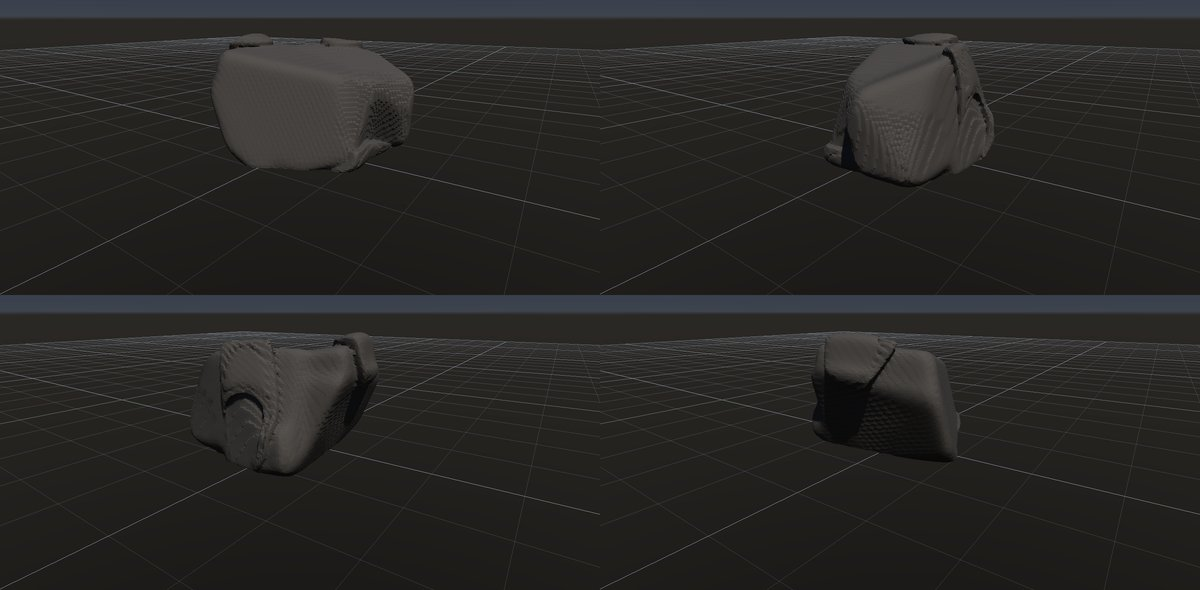
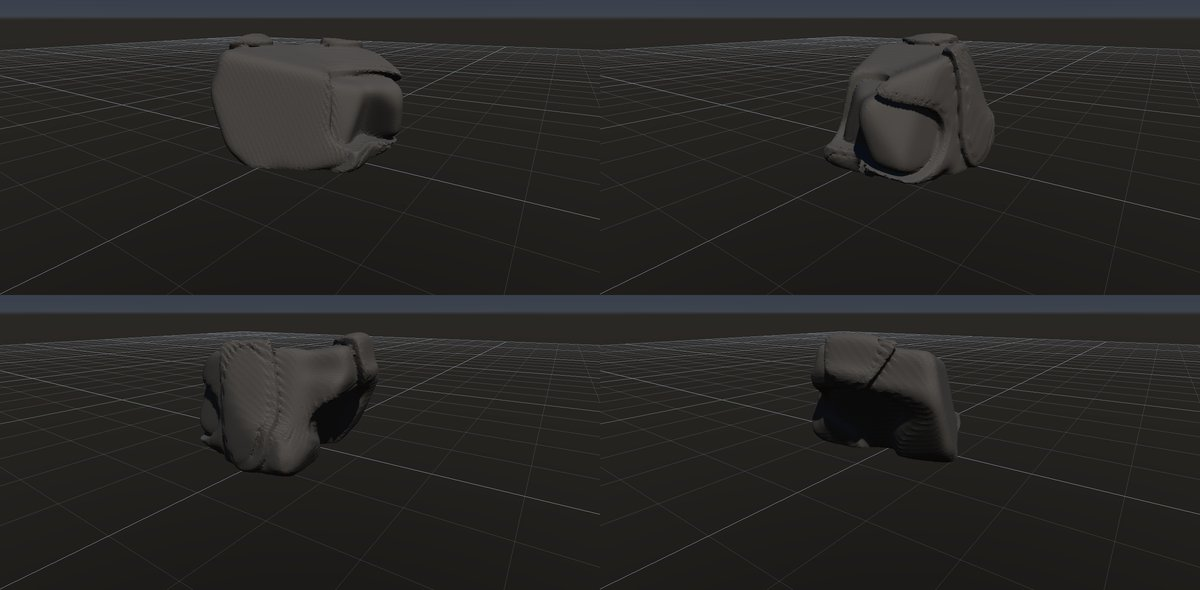
fix: Volume Crack の殻の剥がれが縞になる・内側の殻が剥がれない不具合を直す
剥がれた底のすぐ下の格子点が元の値のまま残り、底をまたぐセルで値が跳んで
等高線のような縞（ボクセルの段）になっていた。底の 3 セル奥まで値を直す。
殻ごとのループが 1 枚目で打ち切られ、2 枚目以降の剥がれが効いていなかったのも直す。
剥がれ落ちた殻には割れ目を彫らない。回帰テストを 2 つ足した。

レシピ spheroidal-weathering（玉ねぎ状風化）を足し、granite-sheeting は殻を 2 枚に減らした。

diff --git a/src/geometry/Volume.cpp b/src/geometry/Volume.cpp
@@ -1114,6 +1114,19 @@ static VolumeGrid CrackVolumeImpl(const VolumeGrid& g, const std::vector<Vec3>& 
             }
         return best;
     };
+    // 剥がれ: 殻 k の板は、殻ごとのノイズがしきい値（内側の殻ほど低い）を下回る所で剥がれ落ちる。正なら剥がれている。
+    const auto peelMargin = [&](Vec3 p, int k) {
+        const float n = ValueNoise(p.x * frequency, p.y * frequency, p.z * frequency, seed ^ (uint64_t(k) * 0xA5A5ull));
+        return s.shellPeel * std::pow(.6f, float(k - 1)) - n;
+    };
+    // その位置で剥がれ落ちた最も深い殻の番号（無ければ 0）。殻 k が剥がれると、それより外の殻もない。
+    const auto peelLevel = [&](Vec3 p) {
+        int level = 0;
+        if (s.shellPeel > 0)
+            for (int k = 1; k <= s.shellCount; ++k)
+                if (peelMargin(p, k) > 0) level = k;
+        return level;
+    };
     const bool inside = FillSlices(out, [&](uint32_t x, uint32_t y, uint32_t z) {
         const size_t index = out.Index(x, y, z);
         float value = g.values[index];
@@ -1130,9 +1143,11 @@ static VolumeGrid CrackVolumeImpl(const VolumeGrid& g, const std::vector<Vec3>& 
             }
             if (shells) {
                 // 殻 k は深さ（ならした距離場）が 間隔 × k の面。殻に沿う割れ目（V 字の断面は表面からの深さで狭める）。
+                // 剥がれ落ちた殻には彫らない。剥がれた跡の底はその殻の面そのもので、セルより細い割れ目の板が
+                // 底に重なると格子と干渉して等高線のような縞になる。下の殻の割れ目は段の壁に線として見える。
                 const float depthAlong = -smoothed[index];
                 const int k0 = int(std::round(depthAlong / shellSpacing));
-                if (k0 >= 1 && k0 <= s.shellCount) {
+                if (k0 >= 1 && k0 <= s.shellCount && k0 > peelLevel(p)) {
                     const float width = reach * shellFactors[size_t(k0 - 1)];
                     if (width > 0) value = std::max(value, width - std::abs(depthAlong - float(k0) * shellSpacing));
                 }
@@ -1176,14 +1191,18 @@ static VolumeGrid CrackVolumeImpl(const VolumeGrid& g, const std::vector<Vec3>& 
         if (shells && s.shellPeel > 0) {
             // 剥がれ: 殻 k より外の板がまだらに剥がれ落ちた所を外部にする。剥がれた跡の底は殻 k、縁は段の壁になる。
             // まだらはノイズのしきい値で決め、内側の殻ほど剥がれにくくする。
+            // 剥がれた跡の底より少し奥（数セル）まで値を直す。底の面までで止めると、底のすぐ下の格子点が
+            // 元の深い値のまま残り、底をまたぐセルの補間がずれて、ボクセルの段（等高線のような縞）になる。
             const float depthAlong = -smoothed[index];
-            if (depthAlong > -shellSpacing && depthAlong < shellSpacing * float(s.shellCount)) {
+            const float below = 3 * out.spacing;
+            if (depthAlong > -shellSpacing && depthAlong < shellSpacing * float(s.shellCount) + below) {
                 const auto p = out.Position(x, y, z);
                 const float wall = .35f / frequency;  // ノイズの差を距離へ直す目安（まだら 1 つの大きさの 3 割）
-                for (int k = 1; k <= s.shellCount && depthAlong < shellSpacing * float(k); ++k) {
-                    const float n = ValueNoise(p.x * frequency, p.y * frequency, p.z * frequency, seed ^ (uint64_t(k) * 0xA5A5ull));
-                    const float limit = s.shellPeel * std::pow(.6f, float(k - 1));
-                    const float carve = std::min(shellSpacing * float(k) - depthAlong, (limit - n) * wall);
+                // 殻 k の剥がれは、殻 k より外（と底の少し奥）の点にだけ効く。深い点ほど外側の殻は飛ばす
+                // （ループの条件に書くと、1 枚目で打ち切られて内側の殻が剥がれなくなる）。
+                for (int k = 1; k <= s.shellCount; ++k) {
+                    if (depthAlong >= shellSpacing * float(k) + below) continue;
+                    const float carve = std::min(shellSpacing * float(k) - depthAlong, peelMargin(p, k) * wall);
                     value = std::max(value, carve);
                 }
             }

diff --git a/tests/VolumeCrackTests.cpp b/tests/VolumeCrackTests.cpp
@@ -298,14 +298,40 @@ void TestShells() {
     geometry::MeshInfo info, dual;
     Check(error.empty() && Measure(peeled, info) && info.volume < boxInfo.volume * .97, "外側の板が剥がれて体積が減る");
     Check(Measure(peeled, dual, geometry::VolumeMeshingMethod::DualContouring), "Dual Contouring でも閉じた表面にできる");
+    // 1 枚目を全面剥がす（剥がれ 1）。底の上下の格子点は「元の値 + 間隔」になる。底のすぐ下が元の深い値のまま
+    // 残ると、底をまたぐセルの補間がずれてボクセルの段（等高線のような縞）になっていた。
+    geometry::VolumeCrackSettings flat = shells;
+    flat.shellCount = 1; flat.shellPeel = 1; flat.shellSmoothing = 0; flat.width = 0;
+    const auto offset = geometry::CrackVolumeWithShells(box, flat, error);
+    const float spacing = flat.shellSpacing * 2, cell = box.spacing;
+    // 間隔は格子の内部の最長辺に対する比なので、足される量は 0.1 m に近い一定値になる。
+    bool exact = error.empty();
+    float shift = std::numeric_limits<float>::quiet_NaN();
+    for (size_t i = 0; i < box.values.size(); ++i)
+        if (box.values[i] < -spacing + cell && box.values[i] > -spacing - 2 * cell) {
+            const float d = offset.values[i] - box.values[i];
+            if (std::isnan(shift)) shift = d;
+            exact &= std::abs(d - shift) < 1e-5f;
+        }
+    Check(exact && std::abs(shift - spacing) < .1f * spacing,
+          "剥がれた底の上下の格子点は、元の値に一定の間隔を足した値になる（段にならない）");
+    // 2 枚目の殻の剥がれは、1 枚目より深い所まで効く（以前はループが 1 枚目で打ち切られていた）。
+    geometry::VolumeCrackSettings twoShells = flat;
+    twoShells.shellCount = 2;
+    const auto deeper = geometry::CrackVolumeWithShells(box, twoShells, error);
+    bool reachesSecond = false;
+    for (size_t i = 0; i < box.values.size(); ++i)
+        if (box.values[i] < -spacing * 1.5f && box.values[i] > -spacing * 2) reachesSecond |= deeper.values[i] >= 0;
+    Check(error.empty() && reachesSecond, "2 枚目の殻が剥がれた所は 1 枚目の底より深くまで外になる");
     Check(peeled.dimensions == box.dimensions, "格子は入力のまま");
-    // 剥がれるのは殻の枚数 × 間隔の深さまで（0.05 × 2 m × 3 枚 = 0.3 m）。それより内側は変わらない。
+    // 剥がれるのは殻の枚数 × 間隔の深さまで（0.05 × 2 m × 3 枚 = 0.3 m）。剥がれた底の下は 3 セル（約 0.1 m）まで
+    // 値を直す（底をまたぐ補間を正しくするため）。それより内側は変わらない。
     bool deepKept = true;
     for (uint32_t z = 0; z < box.dimensions[2]; ++z)
         for (uint32_t y = 0; y < box.dimensions[1]; ++y)
             for (uint32_t x = 0; x < box.dimensions[0]; ++x) {
                 const size_t i = box.Index(x, y, z);
-                if (box.values[i] < -.4f) deepKept &= peeled.values[i] == box.values[i];
+                if (box.values[i] < -.5f) deepKept &= peeled.values[i] == box.values[i];
             }
     Check(deepKept, "殻より深い内部は変わらない");
     geometry::VolumeCrackSettings none = shells;

diff --git a/docs/research/rocks.md b/docs/research/rocks.md
@@ -1,7 +1,7 @@
 # 岩の研究ページ
 
 作成日時: 2026-10-01 12:50
-更新日時: 2026-10-01 13:40
+更新日時: 2026-10-01 14:30
 
 「あらゆる種類の岩を作れること」を目標に、岩の種類ごとに今の出来・作り方・課題・改善の履歴を残すページ。一つずつ改善していく。足りないノードの整理（G 番号）は [岩の種類の網羅](../reference/rock-catalog.md)、組み方の手順は [skill](../../.claude/skills/rock-graph/SKILL.md)。
 
@@ -43,7 +43,7 @@
 | [羊背岩](#羊背岩) | ○ | `roche-moutonnee` | 擦痕（素材のハイト） |
 | [片麻岩](#片麻岩) | ○ | `gneiss` | 縞のシマウマ感 |
 | [大理石](#大理石) | △ | `marble` | 網目の感じ |
-| [玉ねぎ状風化・剥離ドーム](#玉ねぎ状風化剥離ドーム) | 未 | — | 丸い形に表面に沿う殻 |
+| [玉ねぎ状風化・剥離ドーム](#玉ねぎ状風化剥離ドーム) | △ | `spheroidal-weathering` | 剥がれの縁の薄い板に穴が開く |
 | [石灰岩の溶食（縦溝）](#石灰岩の溶食縦溝) | × | — | 流下の溝のノード |
 | [風食](#風食) | 未 | — | 集中する向きを風上へ |
 | [枕状溶岩](#枕状溶岩) | 未 | — | — |
@@ -161,9 +161,10 @@
 - 状態: △
 - レシピ: [`granite-sheeting`](../../examples/ai-recipes/granite-sheeting.rockgraph)
 - 作り方: 角張った塊に Volume Crack の割り方「表面に沿う殻」。外側の板がまだらに剥がれ落ちた段を作る。
-- 課題: 剥がれた跡の平らな面にボクセルの格子模様が出る。段がもう少し厚く、縁が欠けているとよい。
+- 課題: 剥がれた跡の面に斜めの細かい縞が出る。土台の Random Boxes（重なった箱）の内部に隠れた面があり、To Volume が内部の距離をその面まで測るので、殻の深さが歪む（To Volume の再距離化が要る）。段がもう少し厚く、縁が欠けているとよい。
 - 履歴:
   - 2026-10-01 初版。最初の案（ならした距離場の等値面を殻にする）は、凸な形では殻が表面と交わらず、何も彫れなかった（体積が前後で同じだったことで気付いた）。外側の板の剥がれで見せる案に変えた。
+  - 2026-10-01 Volume Crack の殻の不具合（内側の殻が剥がれない・剥がれた底の段）を直したら、内側の殻まで剥がれて深くえぐれたので、殻の枚数を 4 → 2 に減らした。格子模様のうち段の分は消えたが、斜めの縞が残った（上の課題）。
 
 ### 花崗岩の岩峰
 
@@ -272,9 +273,14 @@
 
 ### 玉ねぎ状風化・剥離ドーム
 
-- 状態: 未
-- 作り方の見込み: 丸い形に Volume Crack の「表面に沿う殻」（`granite-sheeting` の応用）。
-- 履歴: —
+![spheroidal-weathering](images/spheroidal-weathering.jpg)
+
+- 状態: △
+- レシピ: [`spheroidal-weathering`](../../examples/ai-recipes/spheroidal-weathering.rockgraph)
+- 作り方: 表面を少し揺らした楕円体（Base Shape）に、Volume Crack の「表面に沿う殻」を薄く 3 枚（間隔 0.03・剥がれ 0.6）。外側の殻ほどよく剥がれ、剥がれの縁に下の殻の割れ目が線として見える。剥離ドームは同じ組み方を大きな形で使う想定（未検証）。
+- 課題: 剥がれの縁の薄い板に小さな穴が開く所がある。殻の厚さがどこも同じで、実物より規則的。
+- 履歴:
+  - 2026-10-01 初版。最初は表面全体に等高線のような縞が出た。原因は Volume Crack の殻の 2 つの不具合で、剥がれの処理が剥がれた底の面までしか値を直さず（底のすぐ下が元の深い値のまま）、さらにループが 1 枚目の殻で打ち切られて内側の殻が剥がれていなかった。直すと縞は消えた。Random Boxes を土台にすると、重なった箱の内部の面で殻の深さが歪むので、内部に面の無い Base Shape の楕円体にした。
 
 ### 石灰岩の溶食（縦溝）
 

diff --git a/docs/reference/rock-catalog.md b/docs/reference/rock-catalog.md
@@ -1,7 +1,7 @@
 # 岩の種類の網羅（作れる岩と足りないノード）
 
 作成日時: 2026-10-01 08:30
-更新日時: 2026-10-01 13:40
+更新日時: 2026-10-01 14:30
 
 ## 目的
 
@@ -29,7 +29,7 @@
 | 崖錐の角張った岩片 | 鋭い割れ面、小さな欠け | ○ | `talus-fragment`（大きな平面で強く切り、局所の欠け） |
 | 河原の丸石・円礫 | 平たく丸い、なめらか | ○ | `river-pebble`（楕円体 + 弱いノイズ、Marching Tetrahedra） |
 | 丸い転石・迷子石 | 丸いが大きな面が残る | ○ | `rounded-boulder` |
-| 花崗岩のコアストーン・シーティング | 丸い塊に、表面に沿って湾曲した剥離の割れ目 | △ | `granite-sheeting`（Volume Crack の「表面に沿う殻」。G3 で対応）。剥がれた板の段は出るが、平らな面にボクセルの格子模様が出る |
+| 花崗岩のコアストーン・シーティング | 丸い塊に、表面に沿って湾曲した剥離の割れ目 | △ | `granite-sheeting`（Volume Crack の「表面に沿う殻」。G3 で対応）。剥がれた板の段は出るが、重なった箱の土台では To Volume の内部の距離が歪み、剥がれた跡に斜めの縞が出る |
 | 花崗岩の岩峰（岩稜） | 急傾斜の節理で割れた尖った塔が並び、根元でつながる | △ | `granite-buttress`（塔を別々に作って Volume Boolean の和、Volume Crack の有限の割れ目）。根元の塊が台座に見える向きがある |
 | 黒曜石・フリントの貝殻状断口 | 滑らかに湾曲した割れ面、鋭い稜 | ○ | `obsidian`（Plane Cuts の「曲がり」。G4 で対応）。ガラス質の見た目は素材 |
 | 礫岩 | 丸い礫が埋まって突き出る | ○ | `conglomerate`（Volume Scatter の楕円体・和。G7 で対応）。礫と基質の色の違いは **G6** |
@@ -44,7 +44,7 @@
 | 蜂の巣状の風化・タフォニ | 表面の丸いくぼみの群れ | ○ | `honeycomb`（Volume Noise の種類「くぼみ」を粗・細の 2 段。G1 で対応）。今は全面に均一に付く（陰の面に集中させるのは G5 の向き） |
 | 石灰岩の溶食（縦溝・ピナクル） | 重力方向に流れる丸い溝、尖った頂 | × | 鉛直の平面の割れ目では溝にならない（斜面に沿って流れない） → **G5** |
 | きのこ岩・フードゥー・波食ノッチ | 下部や特定の高さがくびれる | ○ | `mushroom-rock` / `hoodoo`（Volume Undercut。G2 で対応）。波食ノッチは帯を 1 本、ワールドの高さで指定する手段は未 |
-| 玉ねぎ状風化・剥離ドーム | 表面と平行な殻の割れと剥がれ | △ | 丸い形に「表面に沿う殻」を掛ける（`granite-sheeting` の応用。未検証） |
+| 玉ねぎ状風化・剥離ドーム | 表面と平行な殻の割れと剥がれ | △ | `spheroidal-weathering`（楕円体に「表面に沿う殻」を薄く 3 枚）。剥がれの縁の薄い板に穴が開く。剥離ドームは未検証 |
 | 氷河の擦痕・研磨面・羊背岩 | 片側が研磨されて丸く、反対側が引き剥がれて角張る。細い平行な擦痕 | ○ | `roche-moutonnee`（Volume Smooth / Edge Wear の「集中する向き」。G5 で対応）。擦痕はセルより細いので素材で → **G6**（細い溝のハイトは未） |
 | 風食（風上の研磨面） | 一方向から削られた滑らかな面 | △ | 「集中する向き」を風上へ（`roche-moutonnee` と同じ組み方。未検証） |
 

diff --git a/docs/changelog.md b/docs/changelog.md
@@ -1,10 +1,11 @@
 # Changelog
 
 作成日時: 2026-09-20 20:05
-更新日時: 2026-10-01 13:40
+更新日時: 2026-10-01 14:30
 
 ## 未リリース
 
+- Volume Crack の「表面に沿う殻」の不具合を直した。剥がれた跡の面に等高線のような縞（ボクセルの段）が出ていたのと、2 枚目以降の殻が剥がれていなかったのを直した。殻を 3 枚以上使うグラフは剥がれが深くなる（`granite-sheeting` は殻を 2 枚に減らした）。レシピ `spheroidal-weathering`（玉ねぎ状風化）を追加。
 - Volume Crack に有限の割れ目を追加（Planes 入力）。「割れ目の長さ」を正にすると、構造面を端から端まで割らずに、先端の閉じた楕円の割れ目を面の上に散らす。「割れている割合」と「段違い」（割れ目ごとに面の法線方向へずらす）を選べる。保存名 `extent` / `coverage` / `stagger`、既定の長さ 0 は従来と同じ結果。仕様は [Volume Crack](reference/volume-crack.md#有限の割れ目2026-10-01-追加)。レシピ `platy-joints` / `granite-buttress` に使った。
 - レシピ `granite-buttress`（花崗岩の岩峰）を追加。急傾斜の節理で割れた塔 2〜3 本が根元でつながる。
 - 岩のテンプレートから岩グラフを作れるようにした。「ファイル」→「テンプレートから作成…」（アセット欄の右クリックの「テンプレートから岩グラフを作成…」）で、片理・柱状節理・きのこ岩など 20 種を分類ごとのサムネイルから選ぶと、表示中のフォルダへ複製して開く。テンプレートは `examples/ai-recipes/` のレシピそのもので、ビルドで実行ファイルの横の `templates/` にコピーする。開発用の起動引数 `--open-templates` / `--template <id>` を追加。
